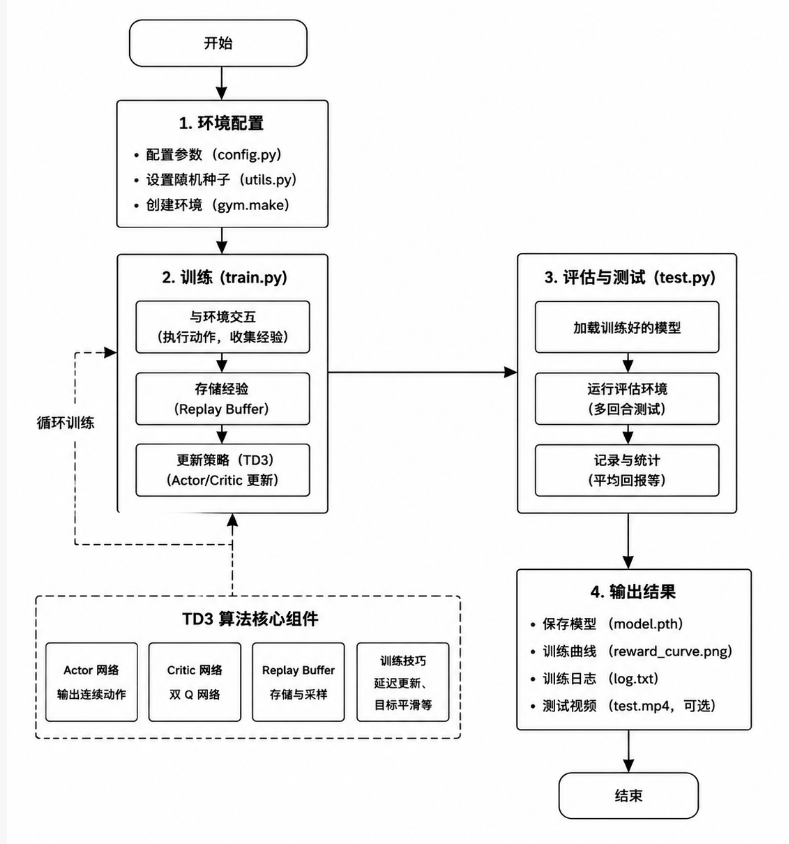
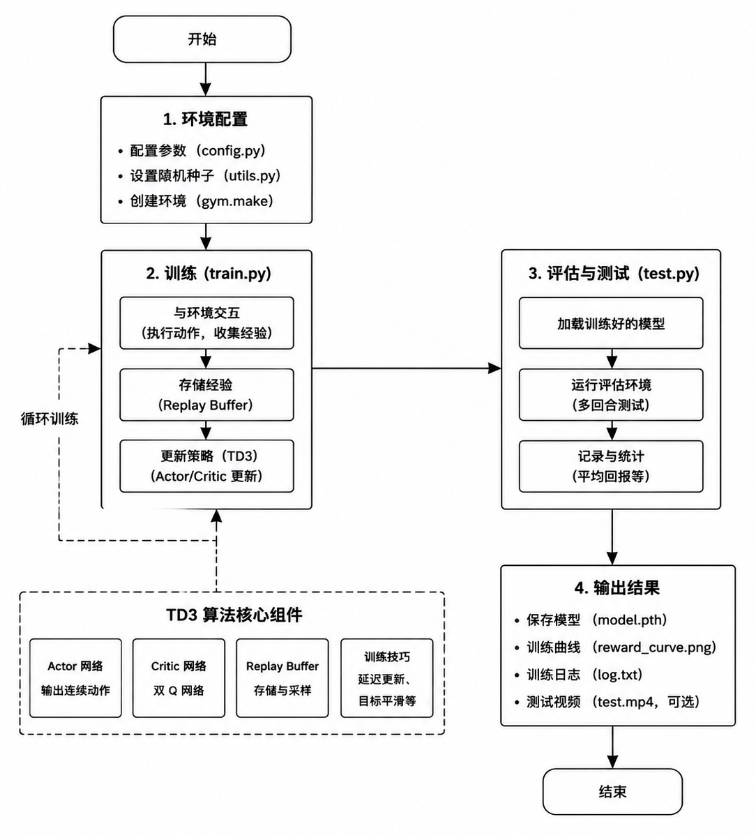
修改项目说明文档

Changed region(s): [[0.0305, 0.0, 0.6093, 0.903], [0.6397, 0.2802, 0.9748, 0.9964]]

diff --git a/docs/td3_carracing/README.md b/docs/td3_carracing/README.md
@@ -64,7 +64,7 @@ src/td3_carracing/
 
 项目整体执行流程如下：
 <p float="left">
-   <img src="0.png" width="90%" />
+   <img src="0.png" width="60%" />
 </p>
 
 ---